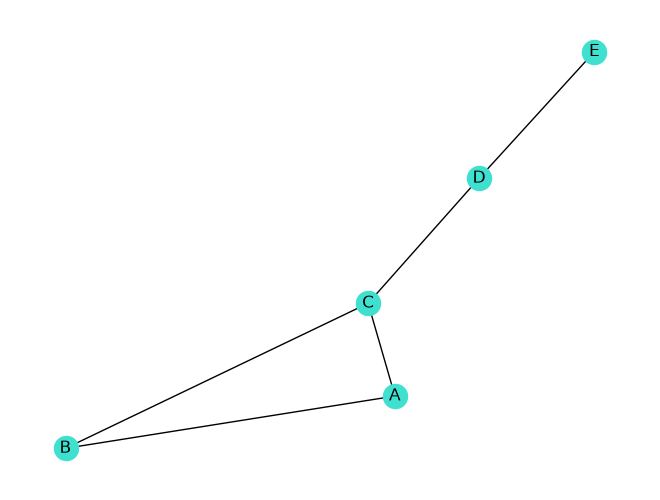
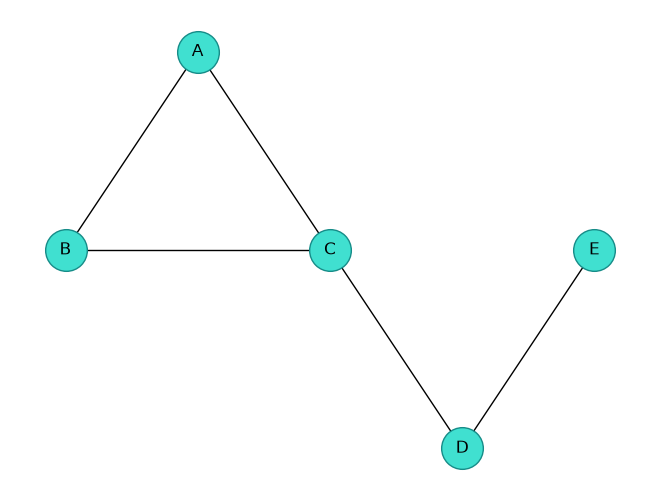
Zaktualizuj notatnik NetworkX i jego stronę

diff --git a/notatniki/networkx.html b/notatniki/networkx.html
@@ -237,9 +237,9 @@ pre > code.sourceCode > span > a:first-child::before { text-decoration: underlin
 
 <p>Poniższy notatnik przedstawia cztery podstawowe klasy grafów w NetworkX, dostęp do danych krawędzi oraz podstawy wizualizacji.</p>
 <p><a href="src/networkx.ipynb" class="btn btn-primary" download="networkx.ipynb">Pobierz notatnik <code>.ipynb</code></a></p>
-<div class="quarto-embed-nb-cell" data-notebook="src/networkx.ipynb" data-notebook-title="[1]{.chapter-number}&nbsp; [NetworkX]{.chapter-title}" data-notebook-cellid="quarto-metadata">
+<div class="quarto-embed-nb-cell" data-notebook="/tmp/pasi2026-lecture1-build/notatniki/src/networkx.ipynb" data-notebook-title="[1]{.chapter-number}&nbsp; [NetworkX]{.chapter-title}" data-notebook-cellid="quarto-metadata">
 <p>Biblioteka NetworkX udostępnia cztery podstawowe klasy grafów: <code>Graph</code>, <code>DiGraph</code>, <code>MultiGraph</code> oraz <code>MultiDiGraph</code>. Różnią się one tym, czy krawędzie mają kierunek i czy pomiędzy tymi samymi wierzchołkami może występować wiele krawędzi.</p>
-<div id="imports" class="cell" data-quarto-private-1="{&quot;key&quot;:&quot;execution&quot;,&quot;value&quot;:{&quot;iopub.execute_input&quot;:&quot;2026-09-02T10:25:00.497203Z&quot;,&quot;iopub.status.busy&quot;:&quot;2026-09-02T10:25:00.497048Z&quot;,&quot;iopub.status.idle&quot;:&quot;2026-09-02T10:25:00.875260Z&quot;,&quot;shell.execute_reply&quot;:&quot;2026-09-02T10:25:00.874727Z&quot;}}" data-execution_count="1">
+<div id="imports" class="cell" data-quarto-private-1="{&quot;key&quot;:&quot;execution&quot;,&quot;value&quot;:{&quot;iopub.execute_input&quot;:&quot;2026-10-13T10:05:38.003641Z&quot;,&quot;iopub.status.busy&quot;:&quot;2026-10-13T10:05:38.003506Z&quot;,&quot;iopub.status.idle&quot;:&quot;2026-10-13T10:05:38.449062Z&quot;,&quot;shell.execute_reply&quot;:&quot;2026-10-13T10:05:38.448614Z&quot;}}" data-execution_count="1">
 <div class="code-copy-outer-scaffold"><div class="sourceCode cell-code" id="cb1"><pre class="sourceCode python code-with-copy"><code class="sourceCode python"><span id="cb1-1"><a href="#cb1-1" aria-hidden="true" tabindex="-1"></a><span class="im">import</span> matplotlib.pyplot <span class="im">as</span> plt</span>
 <span id="cb1-2"><a href="#cb1-2" aria-hidden="true" tabindex="-1"></a><span class="im">import</span> networkx <span class="im">as</span> nx</span>
 <span id="cb1-3"><a href="#cb1-3" aria-hidden="true" tabindex="-1"></a></span>
@@ -254,7 +254,7 @@ pre > code.sourceCode > span > a:first-child::before { text-decoration: underlin
 <section id="graph" class="level3">
 <h3 class="anchored" data-anchor-id="graph"><code>Graph</code></h3>
 <p><code>Graph</code> jest grafem nieskierowanym bez krawędzi wielokrotnych. Ponowne dodanie tej samej krawędzi nie tworzy nowej krawędzi, lecz aktualizuje jej słownik atrybutów. Funkcja <code>add_edge(u, v)</code> oraz <code>add_edge(v, u)</code> będzie miała ten sam efekt.</p>
-<div id="graph-example" class="cell" data-quarto-private-1="{&quot;key&quot;:&quot;execution&quot;,&quot;value&quot;:{&quot;iopub.execute_input&quot;:&quot;2026-09-02T10:25:00.876553Z&quot;,&quot;iopub.status.busy&quot;:&quot;2026-09-02T10:25:00.876364Z&quot;,&quot;iopub.status.idle&quot;:&quot;2026-09-02T10:25:00.879516Z&quot;,&quot;shell.execute_reply&quot;:&quot;2026-09-02T10:25:00.879133Z&quot;}}">
+<div id="graph-example" class="cell" data-quarto-private-1="{&quot;key&quot;:&quot;execution&quot;,&quot;value&quot;:{&quot;iopub.execute_input&quot;:&quot;2026-10-13T10:05:38.450365Z&quot;,&quot;iopub.status.busy&quot;:&quot;2026-10-13T10:05:38.450190Z&quot;,&quot;iopub.status.idle&quot;:&quot;2026-10-13T10:05:38.452882Z&quot;,&quot;shell.execute_reply&quot;:&quot;2026-10-13T10:05:38.452376Z&quot;}}" data-execution_count="2">
 <div class="code-copy-outer-scaffold"><div class="sourceCode cell-code" id="cb3"><pre class="sourceCode python code-with-copy"><code class="sourceCode python"><span id="cb3-1"><a href="#cb3-1" aria-hidden="true" tabindex="-1"></a>graph <span class="op">=</span> nx.Graph() <span class="co">#tworzymy pusty graf nieskierowany</span></span>
 <span id="cb3-2"><a href="#cb3-2" aria-hidden="true" tabindex="-1"></a>graph.add_edge(<span class="st">"A"</span>, <span class="st">"B"</span>, weight<span class="op">=</span><span class="dv">2</span>) <span class="co">#tworzymy krawędź A--B z wagą 2</span></span>
 <span id="cb3-3"><a href="#cb3-3" aria-hidden="true" tabindex="-1"></a>graph.add_edge(<span class="st">"B"</span>, <span class="st">"A"</span>, color<span class="op">=</span><span class="st">"turquoise"</span>) <span class="co">#dodajemy do krawędzi A-B atrybut</span></span>
@@ -274,7 +274,7 @@ Wspólny słownik danych: True</code></pre>
 <section id="digraph" class="level3">
 <h3 class="anchored" data-anchor-id="digraph"><code>DiGraph</code></h3>
 <p><code>DiGraph</code> jest grafem skierowanym bez krawędzi wielokrotnych. Krawędzie <code>u → v</code> oraz <code>v → u</code> są różne. Ponowne dodanie <code>u → v</code> aktualizuje dane istniejącej krawędzi.</p>
-<div id="digraph-example" class="cell" data-quarto-private-1="{&quot;key&quot;:&quot;execution&quot;,&quot;value&quot;:{&quot;iopub.execute_input&quot;:&quot;2026-09-02T10:25:00.880732Z&quot;,&quot;iopub.status.busy&quot;:&quot;2026-09-02T10:25:00.880619Z&quot;,&quot;iopub.status.idle&quot;:&quot;2026-09-02T10:25:00.883533Z&quot;,&quot;shell.execute_reply&quot;:&quot;2026-09-02T10:25:00.882832Z&quot;}}" data-execution_count="3">
+<div id="digraph-example" class="cell" data-quarto-private-1="{&quot;key&quot;:&quot;execution&quot;,&quot;value&quot;:{&quot;iopub.execute_input&quot;:&quot;2026-10-13T10:05:38.453852Z&quot;,&quot;iopub.status.busy&quot;:&quot;2026-10-13T10:05:38.453764Z&quot;,&quot;iopub.status.idle&quot;:&quot;2026-10-13T10:05:38.456430Z&quot;,&quot;shell.execute_reply&quot;:&quot;2026-10-13T10:05:38.455959Z&quot;}}" data-execution_count="3">
 <div class="code-copy-outer-scaffold"><div class="sourceCode cell-code" id="cb5"><pre class="sourceCode python code-with-copy"><code class="sourceCode python"><span id="cb5-1"><a href="#cb5-1" aria-hidden="true" tabindex="-1"></a>digraph <span class="op">=</span> nx.DiGraph()</span>
 <span id="cb5-2"><a href="#cb5-2" aria-hidden="true" tabindex="-1"></a>digraph.add_edge(<span class="st">"A"</span>, <span class="st">"B"</span>, weight<span class="op">=</span><span class="dv">2</span>)</span>
 <span id="cb5-3"><a href="#cb5-3" aria-hidden="true" tabindex="-1"></a>digraph.add_edge(<span class="st">"B"</span>, <span class="st">"A"</span>, weight<span class="op">=</span><span class="dv">5</span>)</span>
@@ -295,7 +295,7 @@ Poprzednicy A: ['B']</code></pre>
 <section id="multigraph" class="level3">
 <h3 class="anchored" data-anchor-id="multigraph"><code>MultiGraph</code></h3>
 <p><code>MultiGraph</code> jest multigrafem nieskierowanym. Każde wywołanie <code>add_edge(u, v)</code> bez podanego klucza tworzy kolejną krawędź i zwraca jej utworzony automatycznie klucz. Podanie istniejącego klucza aktualizuje wskazaną krawędź. Można również używać własnych kluczy, na przykład <code>key="A1"</code>.</p>
-<div id="multigraph-example" class="cell" data-quarto-private-1="{&quot;key&quot;:&quot;execution&quot;,&quot;value&quot;:{&quot;iopub.execute_input&quot;:&quot;2026-09-02T10:25:00.885135Z&quot;,&quot;iopub.status.busy&quot;:&quot;2026-09-02T10:25:00.885012Z&quot;,&quot;iopub.status.idle&quot;:&quot;2026-09-02T10:25:00.887926Z&quot;,&quot;shell.execute_reply&quot;:&quot;2026-09-02T10:25:00.887411Z&quot;}}" data-execution_count="4">
+<div id="multigraph-example" class="cell" data-quarto-private-1="{&quot;key&quot;:&quot;execution&quot;,&quot;value&quot;:{&quot;iopub.execute_input&quot;:&quot;2026-10-13T10:05:38.457397Z&quot;,&quot;iopub.status.busy&quot;:&quot;2026-10-13T10:05:38.457306Z&quot;,&quot;iopub.status.idle&quot;:&quot;2026-10-13T10:05:38.460195Z&quot;,&quot;shell.execute_reply&quot;:&quot;2026-10-13T10:05:38.459773Z&quot;}}" data-execution_count="4">
 <div class="code-copy-outer-scaffold"><div class="sourceCode cell-code" id="cb7"><pre class="sourceCode python code-with-copy"><code class="sourceCode python"><span id="cb7-1"><a href="#cb7-1" aria-hidden="true" tabindex="-1"></a>multigraph <span class="op">=</span> nx.MultiGraph()</span>
 <span id="cb7-2"><a href="#cb7-2" aria-hidden="true" tabindex="-1"></a>first_key <span class="op">=</span> multigraph.add_edge(<span class="st">"A"</span>, <span class="st">"B"</span>, route<span class="op">=</span><span class="st">"lokalna"</span>)</span>
 <span id="cb7-3"><a href="#cb7-3" aria-hidden="true" tabindex="-1"></a>second_key <span class="op">=</span> multigraph.add_edge(<span class="st">"A"</span>, <span class="st">"B"</span>, route<span class="op">=</span><span class="st">"ekspresowa"</span>)</span>
@@ -316,7 +316,7 @@ A B 1 {'route': 'ekspresowa'}</code></pre>
 <section id="multidigraph" class="level3">
 <h3 class="anchored" data-anchor-id="multidigraph"><code>MultiDiGraph</code></h3>
 <p><code>MultiDiGraph</code> łączy kierunek z możliwością przechowywania krawędzi równoległych. Klucze są lokalne dla uporządkowanej pary końców. Dlatego pierwsza krawędź <code>A → B</code> i pierwsza krawędź <code>B → A</code> mogą otrzymać ten sam klucz.</p>
-<div id="multidigraph-example" class="cell" data-quarto-private-1="{&quot;key&quot;:&quot;execution&quot;,&quot;value&quot;:{&quot;iopub.execute_input&quot;:&quot;2026-09-02T10:25:00.889130Z&quot;,&quot;iopub.status.busy&quot;:&quot;2026-09-02T10:25:00.889019Z&quot;,&quot;iopub.status.idle&quot;:&quot;2026-09-02T10:25:00.892546Z&quot;,&quot;shell.execute_reply&quot;:&quot;2026-09-02T10:25:00.892099Z&quot;}}" data-execution_count="5">
+<div id="multidigraph-example" class="cell" data-quarto-private-1="{&quot;key&quot;:&quot;execution&quot;,&quot;value&quot;:{&quot;iopub.execute_input&quot;:&quot;2026-10-13T10:05:38.461276Z&quot;,&quot;iopub.status.busy&quot;:&quot;2026-10-13T10:05:38.461169Z&quot;,&quot;iopub.status.idle&quot;:&quot;2026-10-13T10:05:38.463552Z&quot;,&quot;shell.execute_reply&quot;:&quot;2026-10-13T10:05:38.463140Z&quot;}}" data-execution_count="5">
 <div class="code-copy-outer-scaffold"><div class="sourceCode cell-code" id="cb9"><pre class="sourceCode python code-with-copy"><code class="sourceCode python"><span id="cb9-1"><a href="#cb9-1" aria-hidden="true" tabindex="-1"></a>multidigraph <span class="op">=</span> nx.MultiDiGraph()</span>
 <span id="cb9-2"><a href="#cb9-2" aria-hidden="true" tabindex="-1"></a>forward_1 <span class="op">=</span> multidigraph.add_edge(<span class="st">"A"</span>, <span class="st">"B"</span>, route<span class="op">=</span><span class="st">"pierwsza"</span>)</span>
 <span id="cb9-3"><a href="#cb9-3" aria-hidden="true" tabindex="-1"></a>forward_2 <span class="op">=</span> multidigraph.add_edge(<span class="st">"A"</span>, <span class="st">"B"</span>, route<span class="op">=</span><span class="st">"druga"</span>)</span>
@@ -358,7 +358,7 @@ Krawędzie: [('A', 'B', 0, {'route': 'pierwsza'}), ('A', 'B', 1, {'route': 'drug
 <tr class="even">
 <td><code>DiGraph</code></td>
 <td><code>G.succ[u][v]</code>, <code>G.pred[v][u]</code></td>
-<td>ten sam słownik atrybutów</td>
+<td>słownik atrybutów</td>
 </tr>
 <tr class="odd">
 <td><code>MultiGraph</code></td>
@@ -377,7 +377,7 @@ Krawędzie: [('A', 'B', 0, {'route': 'pierwsza'}), ('A', 'B', 1, {'route': 'drug
 <section id="dostęp-do-jednej-krawędzi" class="level2">
 <h2 class="anchored" data-anchor-id="dostęp-do-jednej-krawędzi">Dostęp do jednej krawędzi</h2>
 <p>W <code>Graph</code> i <code>DiGraph</code> krawędź jest wyznaczona przez parę końców. W <code>MultiGraph</code> i <code>MultiDiGraph</code> trzeba dodatkowo podać jej klucz. Metoda <code>get_edge_data()</code> jest wygodna, gdy zamiast wyjątku chcemy otrzymać wartość domyślną.</p>
-<div id="single-edge-example" class="cell" data-quarto-private-1="{&quot;key&quot;:&quot;execution&quot;,&quot;value&quot;:{&quot;iopub.execute_input&quot;:&quot;2026-09-02T10:25:00.893719Z&quot;,&quot;iopub.status.busy&quot;:&quot;2026-09-02T10:25:00.893612Z&quot;,&quot;iopub.status.idle&quot;:&quot;2026-09-02T10:25:00.896235Z&quot;,&quot;shell.execute_reply&quot;:&quot;2026-09-02T10:25:00.895695Z&quot;}}" data-execution_count="6">
+<div id="single-edge-example" class="cell" data-quarto-private-1="{&quot;key&quot;:&quot;execution&quot;,&quot;value&quot;:{&quot;iopub.execute_input&quot;:&quot;2026-10-13T10:05:38.464496Z&quot;,&quot;iopub.status.busy&quot;:&quot;2026-10-13T10:05:38.464410Z&quot;,&quot;iopub.status.idle&quot;:&quot;2026-10-13T10:05:38.466377Z&quot;,&quot;shell.execute_reply&quot;:&quot;2026-10-13T10:05:38.465931Z&quot;}}" data-execution_count="6">
 <div class="code-copy-outer-scaffold"><div class="sourceCode cell-code" id="cb11"><pre class="sourceCode python code-with-copy"><code class="sourceCode python"><span id="cb11-1"><a href="#cb11-1" aria-hidden="true" tabindex="-1"></a><span class="bu">print</span>(<span class="bu">dict</span>(graph.edges[<span class="st">"A"</span>, <span class="st">"B"</span>]))</span>
 <span id="cb11-2"><a href="#cb11-2" aria-hidden="true" tabindex="-1"></a><span class="bu">print</span>(<span class="bu">dict</span>(digraph.edges[<span class="st">"A"</span>, <span class="st">"B"</span>]))</span>
 <span id="cb11-3"><a href="#cb11-3" aria-hidden="true" tabindex="-1"></a><span class="bu">print</span>(<span class="bu">dict</span>(multigraph.edges[<span class="st">"A"</span>, <span class="st">"B"</span>, first_key]))</span>
@@ -391,8 +391,8 @@ Krawędzie: [('A', 'B', 0, {'route': 'pierwsza'}), ('A', 'B', 1, {'route': 'drug
 </div>
 <section id="sam-klucz-nie-wystarcza" class="level3">
 <h3 class="anchored" data-anchor-id="sam-klucz-nie-wystarcza">Sam klucz nie wystarcza</h3>
-<p>Nie. Klucz multikrawędzi nie jest globalnym identyfikatorem. Ten sam klucz może pojawić się pomiędzy różnymi parami wierzchołków, a NetworkX nie utrzymuje dodatkowego indeksu <code>key → końce krawędzi</code>. Jeżeli znamy tylko klucz, musimy przejrzeć krawędzie.</p>
-<div id="find-key-example" class="cell" data-quarto-private-1="{&quot;key&quot;:&quot;execution&quot;,&quot;value&quot;:{&quot;iopub.execute_input&quot;:&quot;2026-09-02T10:25:00.898246Z&quot;,&quot;iopub.status.busy&quot;:&quot;2026-09-02T10:25:00.898121Z&quot;,&quot;iopub.status.idle&quot;:&quot;2026-09-02T10:25:00.902344Z&quot;,&quot;shell.execute_reply&quot;:&quot;2026-09-02T10:25:00.901947Z&quot;}}" data-execution_count="7">
+<p>Klucz multikrawędzi nie jest globalnym identyfikatorem. Ten sam klucz może pojawić się pomiędzy różnymi parami wierzchołków, a NetworkX nie utrzymuje dodatkowego indeksu <code>key → końce krawędzi</code>. Jeżeli znamy tylko klucz, musimy przejrzeć krawędzie.</p>
+<div id="find-key-example" class="cell" data-quarto-private-1="{&quot;key&quot;:&quot;execution&quot;,&quot;value&quot;:{&quot;iopub.execute_input&quot;:&quot;2026-10-13T10:05:38.467489Z&quot;,&quot;iopub.status.busy&quot;:&quot;2026-10-13T10:05:38.467353Z&quot;,&quot;iopub.status.idle&quot;:&quot;2026-10-13T10:05:38.471790Z&quot;,&quot;shell.execute_reply&quot;:&quot;2026-10-13T10:05:38.471391Z&quot;}}" data-execution_count="7">
 <div class="code-copy-outer-scaffold"><div class="sourceCode cell-code" id="cb13"><pre class="sourceCode python code-with-copy"><code class="sourceCode python"><span id="cb13-1"><a href="#cb13-1" aria-hidden="true" tabindex="-1"></a>roads <span class="op">=</span> nx.MultiGraph()</span>
 <span id="cb13-2"><a href="#cb13-2" aria-hidden="true" tabindex="-1"></a>roads.add_edge(<span class="st">"Warszawa"</span>, <span class="st">"Łódź"</span>, key<span class="op">=</span><span class="st">"A1"</span>, length<span class="op">=</span><span class="dv">130</span>)</span>
 <span id="cb13-3"><a href="#cb13-3" aria-hidden="true" tabindex="-1"></a>roads.add_edge(<span class="st">"Kraków"</span>, <span class="st">"Katowice"</span>, key<span class="op">=</span><span class="st">"A1"</span>, length<span class="op">=</span><span class="dv">80</span>)</span>
@@ -408,43 +408,52 @@ Krawędzie: [('A', 'B', 0, {'route': 'pierwsza'}), ('A', 'B', 1, {'route': 'drug
  ('Kraków', 'Katowice', 'A1', {'length': 80})]</code></pre>
 </div>
 </div>
-<p>Jeżeli nazwy krawędzi mają być globalnie unikalne i często po nich wyszukujemy, warto utrzymywać własny indeks. Taki słownik odtwarza funkcje przypisujące krawędzi jej początek i koniec z formalnej definicji grafu.</p>
-<div id="edge-index-example" class="cell" data-quarto-private-1="{&quot;key&quot;:&quot;execution&quot;,&quot;value&quot;:{&quot;iopub.execute_input&quot;:&quot;2026-09-02T10:25:00.903722Z&quot;,&quot;iopub.status.busy&quot;:&quot;2026-09-02T10:25:00.903585Z&quot;,&quot;iopub.status.idle&quot;:&quot;2026-09-02T10:25:00.906347Z&quot;,&quot;shell.execute_reply&quot;:&quot;2026-09-02T10:25:00.905974Z&quot;}}" data-execution_count="8">
-<div class="code-copy-outer-scaffold"><div class="sourceCode cell-code" id="cb15"><pre class="sourceCode python code-with-copy"><code class="sourceCode python"><span id="cb15-1"><a href="#cb15-1" aria-hidden="true" tabindex="-1"></a>road_graph <span class="op">=</span> nx.MultiGraph()</span>
-<span id="cb15-2"><a href="#cb15-2" aria-hidden="true" tabindex="-1"></a>edge_index <span class="op">=</span> {}</span>
-<span id="cb15-3"><a href="#cb15-3" aria-hidden="true" tabindex="-1"></a></span>
-<span id="cb15-4"><a href="#cb15-4" aria-hidden="true" tabindex="-1"></a><span class="kw">def</span> add_road(u, v, name, <span class="op">**</span>attributes):</span>
-<span id="cb15-5"><a href="#cb15-5" aria-hidden="true" tabindex="-1"></a>    <span class="cf">if</span> name <span class="kw">in</span> edge_index:</span>
-<span id="cb15-6"><a href="#cb15-6" aria-hidden="true" tabindex="-1"></a>        <span class="cf">raise</span> <span class="pp">ValueError</span>(<span class="ss">f"Krawędź </span><span class="sc">{</span>name<span class="sc">}</span><span class="ss"> już istnieje"</span>)</span>
-<span id="cb15-7"><a href="#cb15-7" aria-hidden="true" tabindex="-1"></a>    road_graph.add_edge(u, v, key<span class="op">=</span>name, <span class="op">**</span>attributes)</span>
-<span id="cb15-8"><a href="#cb15-8" aria-hidden="true" tabindex="-1"></a>    edge_index[name] <span class="op">=</span> (u, v, name)</span>
-<span id="cb15-9"><a href="#cb15-9" aria-hidden="true" tabindex="-1"></a></span>
-<span id="cb15-10"><a href="#cb15-10" aria-hidden="true" tabindex="-1"></a>add_road(<span class="st">"Warszawa"</span>, <span class="st">"Łódź"</span>, <span class="st">"A2"</span>, length<span class="op">=</span><span class="dv">130</span>)</span>
-<span id="cb15-11"><a href="#cb15-11" aria-hidden="true" tabindex="-1"></a>edge <span class="op">=</span> edge_index[<span class="st">"A2"</span>]</span>
-<span id="cb15-12"><a href="#cb15-12" aria-hidden="true" tabindex="-1"></a><span class="bu">print</span>(<span class="st">"Identyfikator w NetworkX:"</span>, edge)</span>
-<span id="cb15-13"><a href="#cb15-13" aria-hidden="true" tabindex="-1"></a><span class="bu">print</span>(<span class="st">"Dane:"</span>, <span class="bu">dict</span>(road_graph.edges[edge]))</span></code></pre></div><button title="Kopiuj do schowka" class="code-copy-button"><i class="bi"></i></button></div>
-<div class="cell-output cell-output-stdout">
-<pre><code>Identyfikator w NetworkX: ('Warszawa', 'Łódź', 'A2')
-Dane: {'length': 130}</code></pre>
-</div>
-</div>
 </section>
 </section>
 <section id="podstawy-wizualizacji" class="level2">
 <h2 class="anchored" data-anchor-id="podstawy-wizualizacji">Podstawy wizualizacji</h2>
 <p>Najprostsza funkcja <code>nx.draw()</code> jednocześnie wybiera położenia wierzchołków i rysuje graf za pomocą Matplotlib. Do szybkich eksperymentów wystarczy podać <code>with_labels=True</code>.</p>
-<div id="simple-drawing" class="cell" data-quarto-private-1="{&quot;key&quot;:&quot;execution&quot;,&quot;value&quot;:{&quot;iopub.execute_input&quot;:&quot;2026-09-02T10:25:00.907992Z&quot;,&quot;iopub.status.busy&quot;:&quot;2026-09-02T10:25:00.907755Z&quot;,&quot;iopub.status.idle&quot;:&quot;2026-09-02T10:25:01.025035Z&quot;,&quot;shell.execute_reply&quot;:&quot;2026-09-02T10:25:01.024537Z&quot;}}" data-execution_count="9">
-<div class="code-copy-outer-scaffold"><div class="sourceCode cell-code" id="cb17"><pre class="sourceCode python code-with-copy"><code class="sourceCode python"><span id="cb17-1"><a href="#cb17-1" aria-hidden="true" tabindex="-1"></a>visual_graph <span class="op">=</span> nx.Graph()</span>
-<span id="cb17-2"><a href="#cb17-2" aria-hidden="true" tabindex="-1"></a>visual_graph.add_weighted_edges_from([</span>
-<span id="cb17-3"><a href="#cb17-3" aria-hidden="true" tabindex="-1"></a>    (<span class="st">"A"</span>, <span class="st">"B"</span>, <span class="dv">2</span>),</span>
-<span id="cb17-4"><a href="#cb17-4" aria-hidden="true" tabindex="-1"></a>    (<span class="st">"A"</span>, <span class="st">"C"</span>, <span class="dv">4</span>),</span>
-<span id="cb17-5"><a href="#cb17-5" aria-hidden="true" tabindex="-1"></a>    (<span class="st">"B"</span>, <span class="st">"C"</span>, <span class="dv">1</span>),</span>
-<span id="cb17-6"><a href="#cb17-6" aria-hidden="true" tabindex="-1"></a>    (<span class="st">"C"</span>, <span class="st">"D"</span>, <span class="dv">3</span>),</span>
-<span id="cb17-7"><a href="#cb17-7" aria-hidden="true" tabindex="-1"></a>    (<span class="st">"D"</span>, <span class="st">"E"</span>, <span class="dv">2</span>),</span>
-<span id="cb17-8"><a href="#cb17-8" aria-hidden="true" tabindex="-1"></a>])</span>
-<span id="cb17-9"><a href="#cb17-9" aria-hidden="true" tabindex="-1"></a></span>
-<span id="cb17-10"><a href="#cb17-10" aria-hidden="true" tabindex="-1"></a>nx.draw(visual_graph, with_labels<span class="op">=</span><span class="va">True</span>, node_color<span class="op">=</span><span class="st">"turquoise"</span>)</span>
-<span id="cb17-11"><a href="#cb17-11" aria-hidden="true" tabindex="-1"></a>plt.show()</span></code></pre></div><button title="Kopiuj do schowka" class="code-copy-button"><i class="bi"></i></button></div>
+<div id="simple-drawing" class="cell" data-quarto-private-1="{&quot;key&quot;:&quot;execution&quot;,&quot;value&quot;:{&quot;iopub.execute_input&quot;:&quot;2026-10-13T10:05:38.472603Z&quot;,&quot;iopub.status.busy&quot;:&quot;2026-10-13T10:05:38.472488Z&quot;,&quot;iopub.status.idle&quot;:&quot;2026-10-13T10:05:38.590072Z&quot;,&quot;shell.execute_reply&quot;:&quot;2026-10-13T10:05:38.589564Z&quot;}}" data-execution_count="8">
+<div class="code-copy-outer-scaffold"><div class="sourceCode cell-code" id="cb15"><pre class="sourceCode python code-with-copy"><code class="sourceCode python"><span id="cb15-1"><a href="#cb15-1" aria-hidden="true" tabindex="-1"></a>visual_graph <span class="op">=</span> nx.Graph()</span>
+<span id="cb15-2"><a href="#cb15-2" aria-hidden="true" tabindex="-1"></a>visual_graph.add_weighted_edges_from([</span>
+<span id="cb15-3"><a href="#cb15-3" aria-hidden="true" tabindex="-1"></a>    (<span class="st">"A"</span>, <span class="st">"B"</span>, <span class="dv">2</span>),</span>
+<span id="cb15-4"><a href="#cb15-4" aria-hidden="true" tabindex="-1"></a>    (<span class="st">"A"</span>, <span class="st">"C"</span>, <span class="dv">4</span>),</span>
+<span id="cb15-5"><a href="#cb15-5" aria-hidden="true" tabindex="-1"></a>    (<span class="st">"B"</span>, <span class="st">"C"</span>, <span class="dv">1</span>),</span>
+<span id="cb15-6"><a href="#cb15-6" aria-hidden="true" tabindex="-1"></a>    (<span class="st">"C"</span>, <span class="st">"D"</span>, <span class="dv">3</span>),</span>
+<span id="cb15-7"><a href="#cb15-7" aria-hidden="true" tabindex="-1"></a>    (<span class="st">"D"</span>, <span class="st">"E"</span>, <span class="dv">2</span>),</span>
+<span id="cb15-8"><a href="#cb15-8" aria-hidden="true" tabindex="-1"></a>])</span>
+<span id="cb15-9"><a href="#cb15-9" aria-hidden="true" tabindex="-1"></a></span>
+<span id="cb15-10"><a href="#cb15-10" aria-hidden="true" tabindex="-1"></a>nx.draw(visual_graph, with_labels<span class="op">=</span><span class="va">True</span>, node_color<span class="op">=</span><span class="st">"turquoise"</span>)</span>
+<span id="cb15-11"><a href="#cb15-11" aria-hidden="true" tabindex="-1"></a>plt.show()</span></code></pre></div><button title="Kopiuj do schowka" class="code-copy-button"><i class="bi"></i></button></div>
+<div class="cell-output cell-output-display">
+<div>
+<figure class="figure">
+<p><img src="networkx_files/figure-html/src-networkx-cell-9-output-1.png" class="img-fluid figure-img"></p>
+</figure>
+</div>
+</div>
+</div>
+<section id="pozycje-wierzchołków" class="level3">
+<h3 class="anchored" data-anchor-id="pozycje-wierzchołków">Pozycje wierzchołków</h3>
+<p>Funkcja <code>nx.draw()</code> może otrzymać w argumencie <code>pos</code> słownik, który każdemu wierzchołkowi przypisuje parę współrzędnych <code>(x, y)</code>. Dzięki temu sami ustalamy układ grafu, zamiast pozostawiać jego wyznaczenie bibliotece NetworkX. Współrzędne nie oznaczają pikseli ani konkretnych jednostek — ważne jest ich wzajemne położenie: większa wartość <code>x</code> przesuwa wierzchołek w prawo, a większa wartość <code>y</code> w górę.</p>
+<div id="b8777bb7" class="cell" data-quarto-private-1="{&quot;key&quot;:&quot;execution&quot;,&quot;value&quot;:{&quot;iopub.execute_input&quot;:&quot;2026-10-13T10:05:38.591096Z&quot;,&quot;iopub.status.busy&quot;:&quot;2026-10-13T10:05:38.590928Z&quot;,&quot;iopub.status.idle&quot;:&quot;2026-10-13T10:05:38.613756Z&quot;,&quot;shell.execute_reply&quot;:&quot;2026-10-13T10:05:38.613112Z&quot;}}" data-execution_count="9">
+<div class="code-copy-outer-scaffold"><div class="sourceCode cell-code" id="cb16"><pre class="sourceCode python code-with-copy"><code class="sourceCode python"><span id="cb16-1"><a href="#cb16-1" aria-hidden="true" tabindex="-1"></a>positions <span class="op">=</span> {</span>
+<span id="cb16-2"><a href="#cb16-2" aria-hidden="true" tabindex="-1"></a>    <span class="st">"A"</span>: (<span class="dv">0</span>, <span class="dv">1</span>),</span>
+<span id="cb16-3"><a href="#cb16-3" aria-hidden="true" tabindex="-1"></a>    <span class="st">"B"</span>: (<span class="op">-</span><span class="dv">1</span>, <span class="dv">0</span>),</span>
+<span id="cb16-4"><a href="#cb16-4" aria-hidden="true" tabindex="-1"></a>    <span class="st">"C"</span>: (<span class="dv">1</span>, <span class="dv">0</span>),</span>
+<span id="cb16-5"><a href="#cb16-5" aria-hidden="true" tabindex="-1"></a>    <span class="st">"D"</span>: (<span class="dv">2</span>, <span class="op">-</span><span class="dv">1</span>),</span>
+<span id="cb16-6"><a href="#cb16-6" aria-hidden="true" tabindex="-1"></a>    <span class="st">"E"</span>: (<span class="dv">3</span>, <span class="dv">0</span>),</span>
+<span id="cb16-7"><a href="#cb16-7" aria-hidden="true" tabindex="-1"></a>}</span>
+<span id="cb16-8"><a href="#cb16-8" aria-hidden="true" tabindex="-1"></a></span>
+<span id="cb16-9"><a href="#cb16-9" aria-hidden="true" tabindex="-1"></a>nx.draw(</span>
+<span id="cb16-10"><a href="#cb16-10" aria-hidden="true" tabindex="-1"></a>    visual_graph,</span>
+<span id="cb16-11"><a href="#cb16-11" aria-hidden="true" tabindex="-1"></a>    pos<span class="op">=</span>positions,</span>
+<span id="cb16-12"><a href="#cb16-12" aria-hidden="true" tabindex="-1"></a>    with_labels<span class="op">=</span><span class="va">True</span>,</span>
+<span id="cb16-13"><a href="#cb16-13" aria-hidden="true" tabindex="-1"></a>    node_color<span class="op">=</span><span class="st">"turquoise"</span>,</span>
+<span id="cb16-14"><a href="#cb16-14" aria-hidden="true" tabindex="-1"></a>    edgecolors<span class="op">=</span><span class="st">"#168C88"</span>,</span>
+<span id="cb16-15"><a href="#cb16-15" aria-hidden="true" tabindex="-1"></a>    node_size<span class="op">=</span><span class="dv">900</span>,</span>
+<span id="cb16-16"><a href="#cb16-16" aria-hidden="true" tabindex="-1"></a>)</span>
+<span id="cb16-17"><a href="#cb16-17" aria-hidden="true" tabindex="-1"></a>plt.show()</span></code></pre></div><button title="Kopiuj do schowka" class="code-copy-button"><i class="bi"></i></button></div>
 <div class="cell-output cell-output-display">
 <div>
 <figure class="figure">
@@ -453,54 +462,32 @@ Dane: {'length': 130}</code></pre>
 </div>
 </div>
 </div>
-<section id="pozycje-wierzchołków" class="level3">
-<h3 class="anchored" data-anchor-id="pozycje-wierzchołków">Pozycje wierzchołków</h3>
-<p>Funkcja <code>nx.draw()</code> może otrzymać w argumencie <code>pos</code> słownik, który każdemu wierzchołkowi przypisuje parę współrzędnych <code>(x, y)</code>. Dzięki temu sami ustalamy układ grafu, zamiast pozostawiać jego wyznaczenie bibliotece NetworkX. Współrzędne nie oznaczają pikseli ani konkretnych jednostek — ważne jest ich wzajemne położenie: większa wartość <code>x</code> przesuwa wierzchołek w prawo, a większa wartość <code>y</code> w górę.</p>
-<div id="b8777bb7" class="cell">
-<div class="code-copy-outer-scaffold"><div class="sourceCode cell-code" id="cb18"><pre class="sourceCode python code-with-copy"><code class="sourceCode python"><span id="cb18-1"><a href="#cb18-1" aria-hidden="true" tabindex="-1"></a>positions <span class="op">=</span> {</span>
-<span id="cb18-2"><a href="#cb18-2" aria-hidden="true" tabindex="-1"></a>    <span class="st">"A"</span>: (<span class="dv">0</span>, <span class="dv">1</span>),</span>
-<span id="cb18-3"><a href="#cb18-3" aria-hidden="true" tabindex="-1"></a>    <span class="st">"B"</span>: (<span class="op">-</span><span class="dv">1</span>, <span class="dv">0</span>),</span>
-<span id="cb18-4"><a href="#cb18-4" aria-hidden="true" tabindex="-1"></a>    <span class="st">"C"</span>: (<span class="dv">1</span>, <span class="dv">0</span>),</span>
-<span id="cb18-5"><a href="#cb18-5" aria-hidden="true" tabindex="-1"></a>    <span class="st">"D"</span>: (<span class="dv">2</span>, <span class="op">-</span><span class="dv">1</span>),</span>
-<span id="cb18-6"><a href="#cb18-6" aria-hidden="true" tabindex="-1"></a>    <span class="st">"E"</span>: (<span class="dv">3</span>, <span class="dv">0</span>),</span>
-<span id="cb18-7"><a href="#cb18-7" aria-hidden="true" tabindex="-1"></a>}</span>
-<span id="cb18-8"><a href="#cb18-8" aria-hidden="true" tabindex="-1"></a></span>
-<span id="cb18-9"><a href="#cb18-9" aria-hidden="true" tabindex="-1"></a>nx.draw(</span>
-<span id="cb18-10"><a href="#cb18-10" aria-hidden="true" tabindex="-1"></a>    visual_graph,</span>
-<span id="cb18-11"><a href="#cb18-11" aria-hidden="true" tabindex="-1"></a>    pos<span class="op">=</span>positions,</span>
-<span id="cb18-12"><a href="#cb18-12" aria-hidden="true" tabindex="-1"></a>    with_labels<span class="op">=</span><span class="va">True</span>,</span>
-<span id="cb18-13"><a href="#cb18-13" aria-hidden="true" tabindex="-1"></a>    node_color<span class="op">=</span><span class="st">"turquoise"</span>,</span>
-<span id="cb18-14"><a href="#cb18-14" aria-hidden="true" tabindex="-1"></a>    edgecolors<span class="op">=</span><span class="st">"#168C88"</span>,</span>
-<span id="cb18-15"><a href="#cb18-15" aria-hidden="true" tabindex="-1"></a>    node_size<span class="op">=</span><span class="dv">900</span>,</span>
-<span id="cb18-16"><a href="#cb18-16" aria-hidden="true" tabindex="-1"></a>)</span>
-<span id="cb18-17"><a href="#cb18-17" aria-hidden="true" tabindex="-1"></a>plt.show()</span></code></pre></div><button title="Kopiuj do schowka" class="code-copy-button"><i class="bi"></i></button></div>
-</div>
 <p>Współrzędnych nie musimy wypisywać sami. Poniższe funkcje tworzą je automatycznie: <code>spring_layout()</code>, <code>planar_layout()</code>, <code>circular_layout()</code> i <code>shell_layout()</code>. Ustalenie <code>seed</code> pozwala odtwarzać ten sam układ losowy.</p>
-<div id="layouts-comparison" class="cell" data-quarto-private-1="{&quot;key&quot;:&quot;execution&quot;,&quot;value&quot;:{&quot;iopub.execute_input&quot;:&quot;2026-09-02T10:25:01.026235Z&quot;,&quot;iopub.status.busy&quot;:&quot;2026-09-02T10:25:01.026044Z&quot;,&quot;iopub.status.idle&quot;:&quot;2026-09-02T10:25:01.100766Z&quot;,&quot;shell.execute_reply&quot;:&quot;2026-09-02T10:25:01.100252Z&quot;}}" data-execution_count="10">
-<div class="code-copy-outer-scaffold"><div class="sourceCode cell-code" id="cb19"><pre class="sourceCode python code-with-copy"><code class="sourceCode python"><span id="cb19-1"><a href="#cb19-1" aria-hidden="true" tabindex="-1"></a>layouts <span class="op">=</span> {</span>
-<span id="cb19-2"><a href="#cb19-2" aria-hidden="true" tabindex="-1"></a>    <span class="st">"spring_layout"</span>: nx.spring_layout(visual_graph, seed<span class="op">=</span><span class="dv">7</span>),</span>
-<span id="cb19-3"><a href="#cb19-3" aria-hidden="true" tabindex="-1"></a>    <span class="st">"planar_layout"</span>: nx.planar_layout(visual_graph),</span>
-<span id="cb19-4"><a href="#cb19-4" aria-hidden="true" tabindex="-1"></a>    <span class="st">"circular_layout"</span>: nx.circular_layout(visual_graph),</span>
-<span id="cb19-5"><a href="#cb19-5" aria-hidden="true" tabindex="-1"></a>    <span class="st">"shell_layout"</span>: nx.shell_layout(visual_graph),</span>
-<span id="cb19-6"><a href="#cb19-6" aria-hidden="true" tabindex="-1"></a>}</span>
-<span id="cb19-7"><a href="#cb19-7" aria-hidden="true" tabindex="-1"></a></span>
-<span id="cb19-8"><a href="#cb19-8" aria-hidden="true" tabindex="-1"></a>fig, axes <span class="op">=</span> plt.subplots(<span class="dv">2</span>, <span class="dv">2</span>, figsize<span class="op">=</span>(<span class="dv">8</span>, <span class="dv">6</span>))</span>
-<span id="cb19-9"><a href="#cb19-9" aria-hidden="true" tabindex="-1"></a><span class="cf">for</span> ax, (name, positions) <span class="kw">in</span> <span class="bu">zip</span>(axes.flat, layouts.items()):</span>
-<span id="cb19-10"><a href="#cb19-10" aria-hidden="true" tabindex="-1"></a>    nx.draw(</span>
-<span id="cb19-11"><a href="#cb19-11" aria-hidden="true" tabindex="-1"></a>        visual_graph,</span>
-<span id="cb19-12"><a href="#cb19-12" aria-hidden="true" tabindex="-1"></a>        positions,</span>
-<span id="cb19-13"><a href="#cb19-13" aria-hidden="true" tabindex="-1"></a>        with_labels<span class="op">=</span><span class="va">True</span>,</span>
-<span id="cb19-14"><a href="#cb19-14" aria-hidden="true" tabindex="-1"></a>        node_color<span class="op">=</span><span class="st">"turquoise"</span>,</span>
-<span id="cb19-15"><a href="#cb19-15" aria-hidden="true" tabindex="-1"></a>        edgecolors<span class="op">=</span><span class="st">"#168C88"</span>,</span>
-<span id="cb19-16"><a href="#cb19-16" aria-hidden="true" tabindex="-1"></a>        ax<span class="op">=</span>ax,</span>
-<span id="cb19-17"><a href="#cb19-17" aria-hidden="true" tabindex="-1"></a>    )</span>
-<span id="cb19-18"><a href="#cb19-18" aria-hidden="true" tabindex="-1"></a>    ax.set_title(name)</span>
-<span id="cb19-19"><a href="#cb19-19" aria-hidden="true" tabindex="-1"></a>fig.tight_layout()</span>
-<span id="cb19-20"><a href="#cb19-20" aria-hidden="true" tabindex="-1"></a>plt.show()</span></code></pre></div><button title="Kopiuj do schowka" class="code-copy-button"><i class="bi"></i></button></div>
+<div id="layouts-comparison" class="cell" data-quarto-private-1="{&quot;key&quot;:&quot;execution&quot;,&quot;value&quot;:{&quot;iopub.execute_input&quot;:&quot;2026-10-13T10:05:38.615222Z&quot;,&quot;iopub.status.busy&quot;:&quot;2026-10-13T10:05:38.615127Z&quot;,&quot;iopub.status.idle&quot;:&quot;2026-10-13T10:05:38.685728Z&quot;,&quot;shell.execute_reply&quot;:&quot;2026-10-13T10:05:38.684989Z&quot;}}" data-execution_count="10">
+<div class="code-copy-outer-scaffold"><div class="sourceCode cell-code" id="cb17"><pre class="sourceCode python code-with-copy"><code class="sourceCode python"><span id="cb17-1"><a href="#cb17-1" aria-hidden="true" tabindex="-1"></a>layouts <span class="op">=</span> {</span>
+<span id="cb17-2"><a href="#cb17-2" aria-hidden="true" tabindex="-1"></a>    <span class="st">"spring_layout"</span>: nx.spring_layout(visual_graph, seed<span class="op">=</span><span class="dv">7</span>),</span>
+<span id="cb17-3"><a href="#cb17-3" aria-hidden="true" tabindex="-1"></a>    <span class="st">"planar_layout"</span>: nx.planar_layout(visual_graph),</span>
+<span id="cb17-4"><a href="#cb17-4" aria-hidden="true" tabindex="-1"></a>    <span class="st">"circular_layout"</span>: nx.circular_layout(visual_graph),</span>
+<span id="cb17-5"><a href="#cb17-5" aria-hidden="true" tabindex="-1"></a>    <span class="st">"shell_layout"</span>: nx.shell_layout(visual_graph),</span>
+<span id="cb17-6"><a href="#cb17-6" aria-hidden="true" tabindex="-1"></a>}</span>
+<span id="cb17-7"><a href="#cb17-7" aria-hidden="true" tabindex="-1"></a></span>
+<span id="cb17-8"><a href="#cb17-8" aria-hidden="true" tabindex="-1"></a>fig, axes <span class="op">=</span> plt.subplots(<span class="dv">2</span>, <span class="dv">2</span>, figsize<span class="op">=</span>(<span class="dv">8</span>, <span class="dv">6</span>))</span>
+<span id="cb17-9"><a href="#cb17-9" aria-hidden="true" tabindex="-1"></a><span class="cf">for</span> ax, (name, positions) <span class="kw">in</span> <span class="bu">zip</span>(axes.flat, layouts.items()):</span>
+<span id="cb17-10"><a href="#cb17-10" aria-hidden="true" tabindex="-1"></a>    nx.draw(</span>
+<span id="cb17-11"><a href="#cb17-11" aria-hidden="true" tabindex="-1"></a>        visual_graph,</span>
+<span id="cb17-12"><a href="#cb17-12" aria-hidden="true" tabindex="-1"></a>        positions,</span>
+<span id="cb17-13"><a href="#cb17-13" aria-hidden="true" tabindex="-1"></a>        with_labels<span class="op">=</span><span class="va">True</span>,</span>
+<span id="cb17-14"><a href="#cb17-14" aria-hidden="true" tabindex="-1"></a>        node_color<span class="op">=</span><span class="st">"turquoise"</span>,</span>
+<span id="cb17-15"><a href="#cb17-15" aria-hidden="true" tabindex="-1"></a>        edgecolors<span class="op">=</span><span class="st">"#168C88"</span>,</span>
+<span id="cb17-16"><a href="#cb17-16" aria-hidden="true" tabindex="-1"></a>        ax<span class="op">=</span>ax,</span>
+<span id="cb17-17"><a href="#cb17-17" aria-hidden="true" tabindex="-1"></a>    )</span>
+<span id="cb17-18"><a href="#cb17-18" aria-hidden="true" tabindex="-1"></a>    ax.set_title(name)</span>
+<span id="cb17-19"><a href="#cb17-19" aria-hidden="true" tabindex="-1"></a>fig.tight_layout()</span>
+<span id="cb17-20"><a href="#cb17-20" aria-hidden="true" tabindex="-1"></a>plt.show()</span></code></pre></div><button title="Kopiuj do schowka" class="code-copy-button"><i class="bi"></i></button></div>
 <div class="cell-output cell-output-display">
 <div>
 <figure class="figure">
-<p><img src="networkx_files/figure-html/src-networkx-cell-12-output-1.png" class="img-fluid figure-img"></p>
+<p><img src="networkx_files/figure-html/src-networkx-cell-11-output-1.png" class="img-fluid figure-img"></p>
 </figure>
 </div>
 </div>
@@ -510,27 +497,27 @@ Dane: {'length': 130}</code></pre>
 <section id="dokładniejsze-sterowanie-rysunkiem" class="level3">
 <h3 class="anchored" data-anchor-id="dokładniejsze-sterowanie-rysunkiem">Dokładniejsze sterowanie rysunkiem</h3>
 <p>Funkcja <code>draw_networkx()</code> rysuje wierzchołki, krawędzie i etykiety. Gdy potrzebujemy większej kontroli, możemy wywołać osobno <code>draw_networkx_nodes()</code>, <code>draw_networkx_edges()</code>, <code>draw_networkx_labels()</code> oraz <code>draw_networkx_edge_labels()</code>.</p>
-<div id="detailed-drawing" class="cell" data-quarto-private-1="{&quot;key&quot;:&quot;execution&quot;,&quot;value&quot;:{&quot;iopub.execute_input&quot;:&quot;2026-09-02T10:25:01.102325Z&quot;,&quot;iopub.status.busy&quot;:&quot;2026-09-02T10:25:01.102183Z&quot;,&quot;iopub.status.idle&quot;:&quot;2026-09-02T10:25:01.138345Z&quot;,&quot;shell.execute_reply&quot;:&quot;2026-09-02T10:25:01.137966Z&quot;}}" data-execution_count="11">
-<div class="code-copy-outer-scaffold"><div class="sourceCode cell-code" id="cb20"><pre class="sourceCode python code-with-copy"><code class="sourceCode python"><span id="cb20-1"><a href="#cb20-1" aria-hidden="true" tabindex="-1"></a>positions <span class="op">=</span> nx.spring_layout(visual_graph, seed<span class="op">=</span><span class="dv">7</span>)</span>
-<span id="cb20-2"><a href="#cb20-2" aria-hidden="true" tabindex="-1"></a>edge_labels <span class="op">=</span> nx.get_edge_attributes(visual_graph, <span class="st">"weight"</span>)</span>
-<span id="cb20-3"><a href="#cb20-3" aria-hidden="true" tabindex="-1"></a></span>
-<span id="cb20-4"><a href="#cb20-4" aria-hidden="true" tabindex="-1"></a>fig, ax <span class="op">=</span> plt.subplots(figsize<span class="op">=</span>(<span class="dv">7</span>, <span class="dv">4</span>))</span>
-<span id="cb20-5"><a href="#cb20-5" aria-hidden="true" tabindex="-1"></a>nx.draw_networkx_nodes(</span>
-<span id="cb20-6"><a href="#cb20-6" aria-hidden="true" tabindex="-1"></a>    visual_graph, positions, node_color<span class="op">=</span><span class="st">"turquoise"</span>,</span>
-<span id="cb20-7"><a href="#cb20-7" aria-hidden="true" tabindex="-1"></a>    edgecolors<span class="op">=</span><span class="st">"#168C88"</span>, node_size<span class="op">=</span><span class="dv">900</span>, ax<span class="op">=</span>ax,</span>
-<span id="cb20-8"><a href="#cb20-8" aria-hidden="true" tabindex="-1"></a>)</span>
-<span id="cb20-9"><a href="#cb20-9" aria-hidden="true" tabindex="-1"></a>nx.draw_networkx_edges(visual_graph, positions, width<span class="op">=</span><span class="fl">1.5</span>, ax<span class="op">=</span>ax)</span>
-<span id="cb20-10"><a href="#cb20-10" aria-hidden="true" tabindex="-1"></a>nx.draw_networkx_labels(visual_graph, positions, ax<span class="op">=</span>ax)</span>
-<span id="cb20-11"><a href="#cb20-11" aria-hidden="true" tabindex="-1"></a>nx.draw_networkx_edge_labels(</span>
-<span id="cb20-12"><a href="#cb20-12" aria-hidden="true" tabindex="-1"></a>    visual_graph, positions, edge_labels<span class="op">=</span>edge_labels, ax<span class="op">=</span>ax,</span>
-<span id="cb20-13"><a href="#cb20-13" aria-hidden="true" tabindex="-1"></a>)</span>
-<span id="cb20-14"><a href="#cb20-14" aria-hidden="true" tabindex="-1"></a>ax.set_axis_off()</span>
-<span id="cb20-15"><a href="#cb20-15" aria-hidden="true" tabindex="-1"></a>fig.tight_layout()</span>
-<span id="cb20-16"><a href="#cb20-16" aria-hidden="true" tabindex="-1"></a>plt.show()</span></code></pre></div><button title="Kopiuj do schowka" class="code-copy-button"><i class="bi"></i></button></div>
+<div id="detailed-drawing" class="cell" data-quarto-private-1="{&quot;key&quot;:&quot;execution&quot;,&quot;value&quot;:{&quot;iopub.execute_input&quot;:&quot;2026-10-13T10:05:38.687197Z&quot;,&quot;iopub.status.busy&quot;:&quot;2026-10-13T10:05:38.687086Z&quot;,&quot;iopub.status.idle&quot;:&quot;2026-10-13T10:05:38.725441Z&quot;,&quot;shell.execute_reply&quot;:&quot;2026-10-13T10:05:38.725061Z&quot;}}" data-execution_count="11">
+<div class="code-copy-outer-scaffold"><div class="sourceCode cell-code" id="cb18"><pre class="sourceCode python code-with-copy"><code class="sourceCode python"><span id="cb18-1"><a href="#cb18-1" aria-hidden="true" tabindex="-1"></a>positions <span class="op">=</span> nx.spring_layout(visual_graph, seed<span class="op">=</span><span class="dv">7</span>)</span>
+<span id="cb18-2"><a href="#cb18-2" aria-hidden="true" tabindex="-1"></a>edge_labels <span class="op">=</span> nx.get_edge_attributes(visual_graph, <span class="st">"weight"</span>)</span>
+<span id="cb18-3"><a href="#cb18-3" aria-hidden="true" tabindex="-1"></a></span>
+<span id="cb18-4"><a href="#cb18-4" aria-hidden="true" tabindex="-1"></a>fig, ax <span class="op">=</span> plt.subplots(figsize<span class="op">=</span>(<span class="dv">7</span>, <span class="dv">4</span>))</span>
+<span id="cb18-5"><a href="#cb18-5" aria-hidden="true" tabindex="-1"></a>nx.draw_networkx_nodes(</span>
+<span id="cb18-6"><a href="#cb18-6" aria-hidden="true" tabindex="-1"></a>    visual_graph, positions, node_color<span class="op">=</span><span class="st">"turquoise"</span>,</span>
+<span id="cb18-7"><a href="#cb18-7" aria-hidden="true" tabindex="-1"></a>    edgecolors<span class="op">=</span><span class="st">"#168C88"</span>, node_size<span class="op">=</span><span class="dv">900</span>, ax<span class="op">=</span>ax,</span>
+<span id="cb18-8"><a href="#cb18-8" aria-hidden="true" tabindex="-1"></a>)</span>
+<span id="cb18-9"><a href="#cb18-9" aria-hidden="true" tabindex="-1"></a>nx.draw_networkx_edges(visual_graph, positions, width<span class="op">=</span><span class="fl">1.5</span>, ax<span class="op">=</span>ax)</span>
+<span id="cb18-10"><a href="#cb18-10" aria-hidden="true" tabindex="-1"></a>nx.draw_networkx_labels(visual_graph, positions, ax<span class="op">=</span>ax)</span>
+<span id="cb18-11"><a href="#cb18-11" aria-hidden="true" tabindex="-1"></a>nx.draw_networkx_edge_labels(</span>
+<span id="cb18-12"><a href="#cb18-12" aria-hidden="true" tabindex="-1"></a>    visual_graph, positions, edge_labels<span class="op">=</span>edge_labels, ax<span class="op">=</span>ax,</span>
+<span id="cb18-13"><a href="#cb18-13" aria-hidden="true" tabindex="-1"></a>)</span>
+<span id="cb18-14"><a href="#cb18-14" aria-hidden="true" tabindex="-1"></a>ax.set_axis_off()</span>
+<span id="cb18-15"><a href="#cb18-15" aria-hidden="true" tabindex="-1"></a>fig.tight_layout()</span>
+<span id="cb18-16"><a href="#cb18-16" aria-hidden="true" tabindex="-1"></a>plt.show()</span></code></pre></div><button title="Kopiuj do schowka" class="code-copy-button"><i class="bi"></i></button></div>
 <div class="cell-output cell-output-display">
 <div>
 <figure class="figure">
-<p><img src="networkx_files/figure-html/src-networkx-cell-13-output-1.png" class="img-fluid figure-img"></p>
+<p><img src="networkx_files/figure-html/src-networkx-cell-12-output-1.png" class="img-fluid figure-img"></p>
 </figure>
 </div>
 </div>
